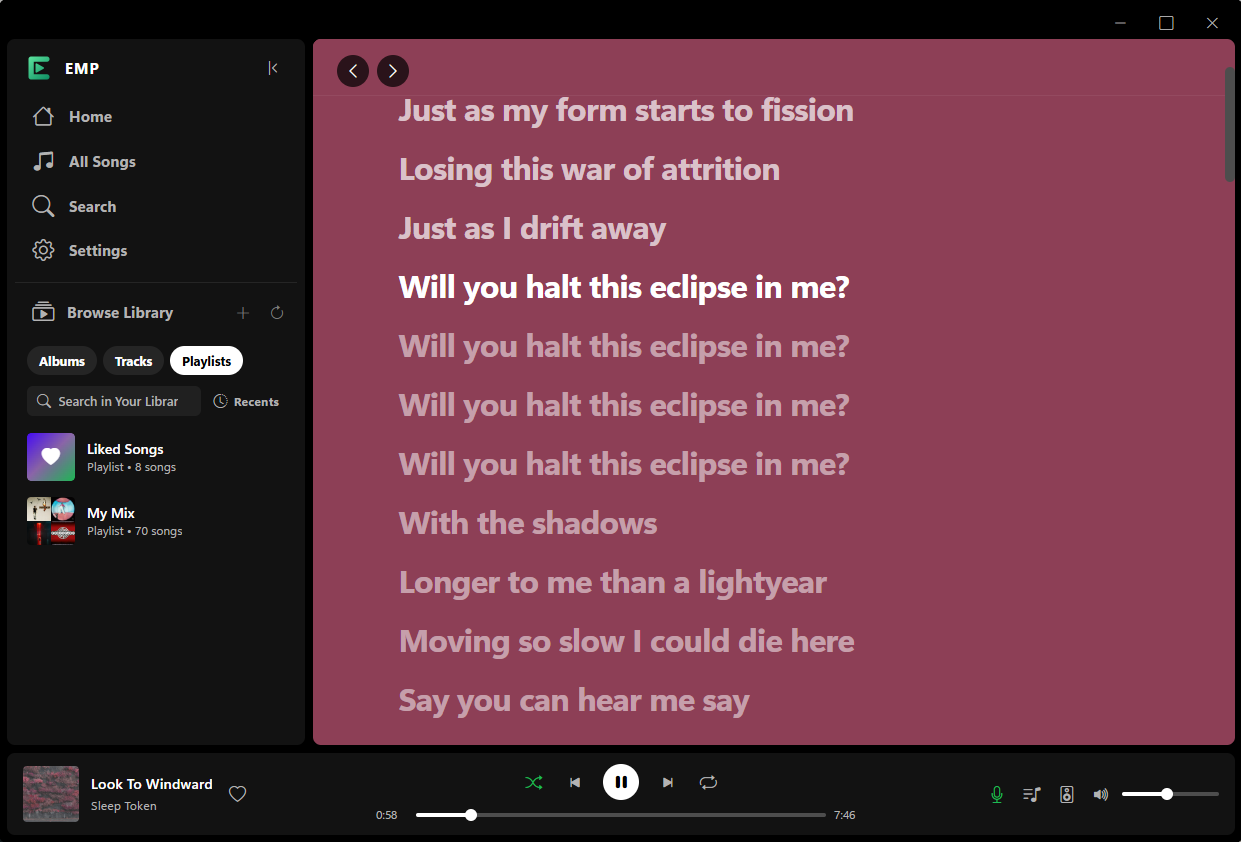
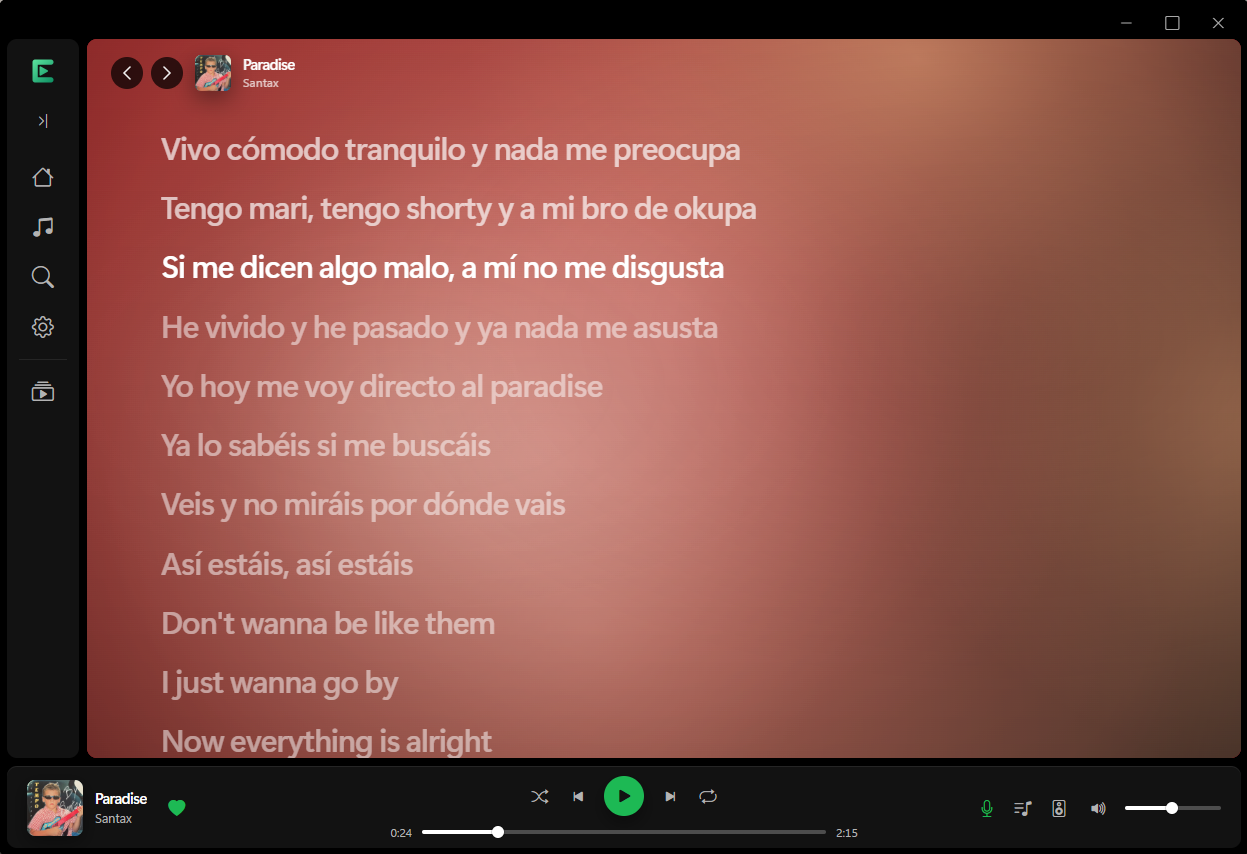
Update README.md to reflect new features and enhancements in version 0.4.3, including updated image references and additional sections for lyrics and queue views. Replace existing image descriptions for clarity and add new images for light theme lyrics and queue functionality.

diff --git a/README.md b/README.md
@@ -150,14 +150,24 @@ Sonora is also available as a standalone open-source project for developers buil
 <p align="center"><em>Settings — customize playback, audio output, equalizer, and more.</em></p>
 
 <p align="center">
-  <img src="EMP/www/img/image5.png" alt="Artists page and discography">
+  <img src="EMP/www/img/image5.png?v=0.4.3" alt="Artist profile page">
 </p>
-<p align="center"><em>Artists — explore your library and discographies.</em></p>
+<p align="center"><em>Artists — profiles, biography, and discography.</em></p>
 
 <p align="center">
-  <img src="EMP/www/img/image6.png" alt="Lyrics page">
+  <img src="EMP/www/img/image6.png?v=0.4.3" alt="Lyrics view">
 </p>
 <p align="center"><em>Lyrics — follow along with synced or plain lyrics.</em></p>
+
+<p align="center">
+  <img src="EMP/www/img/image8.png?v=0.4.3" alt="Lyrics view in light theme">
+</p>
+<p align="center"><em>Lyrics in light theme — the same Now Playing experience in light appearance.</em></p>
+
+<p align="center">
+  <img src="EMP/www/img/image9.png?v=0.4.3" alt="Queue drawer">
+</p>
+<p align="center"><em>Queue — see what’s playing and what’s up next.</em></p>
 
 ## Why EMP?
 
